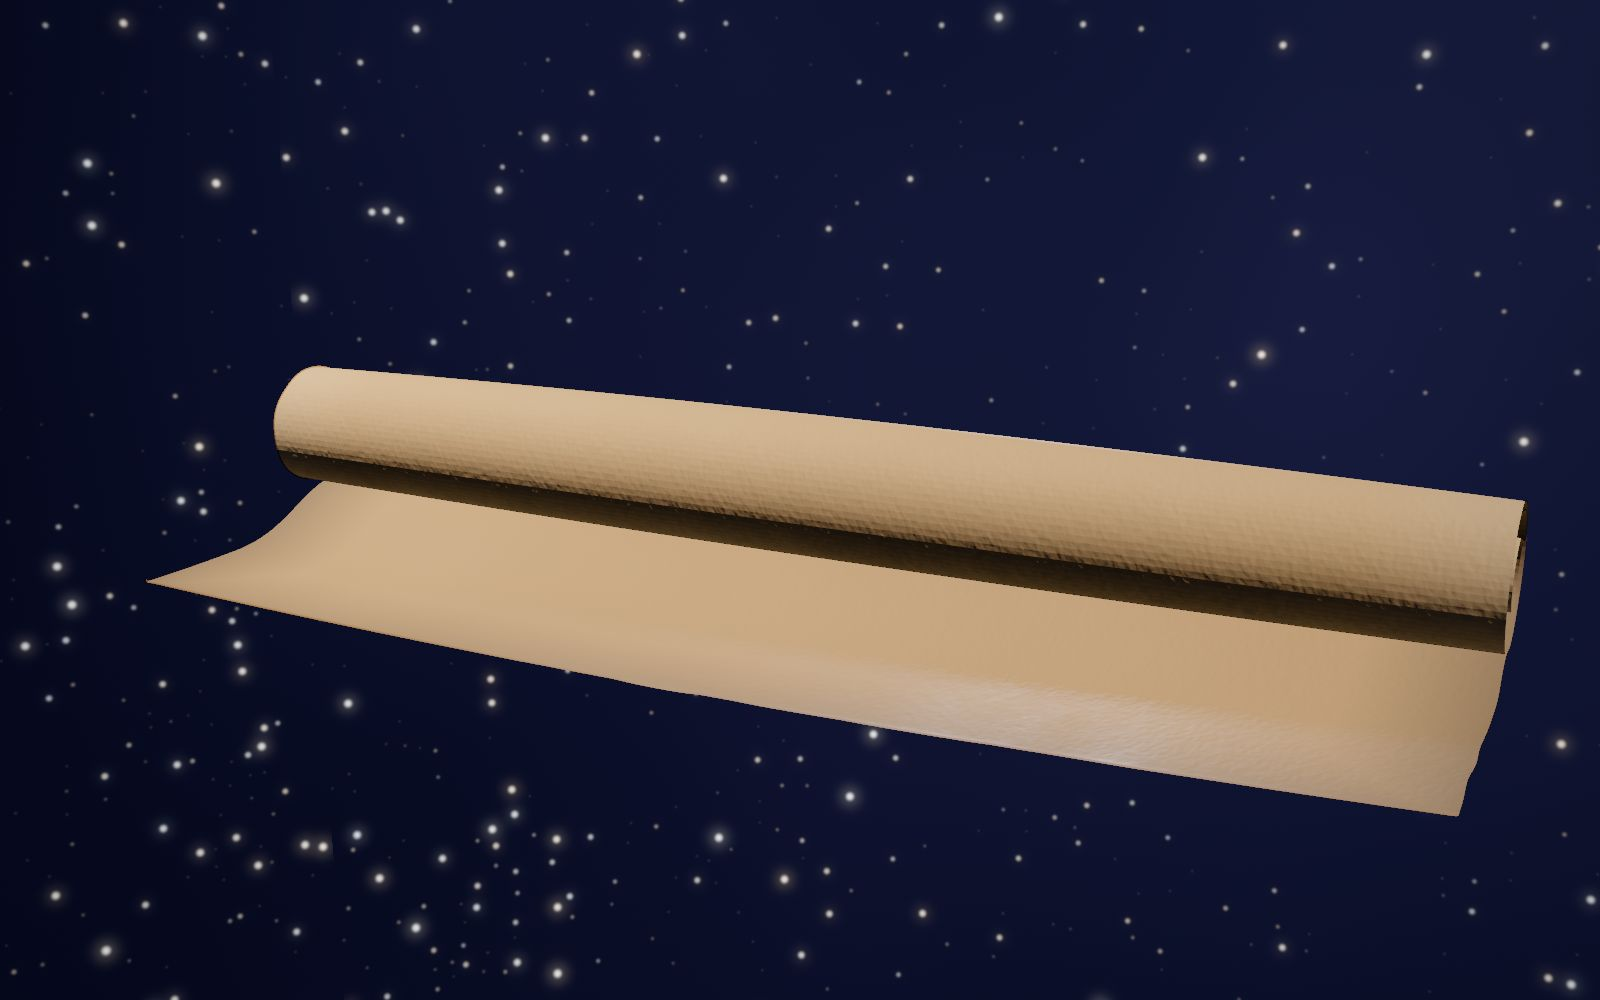
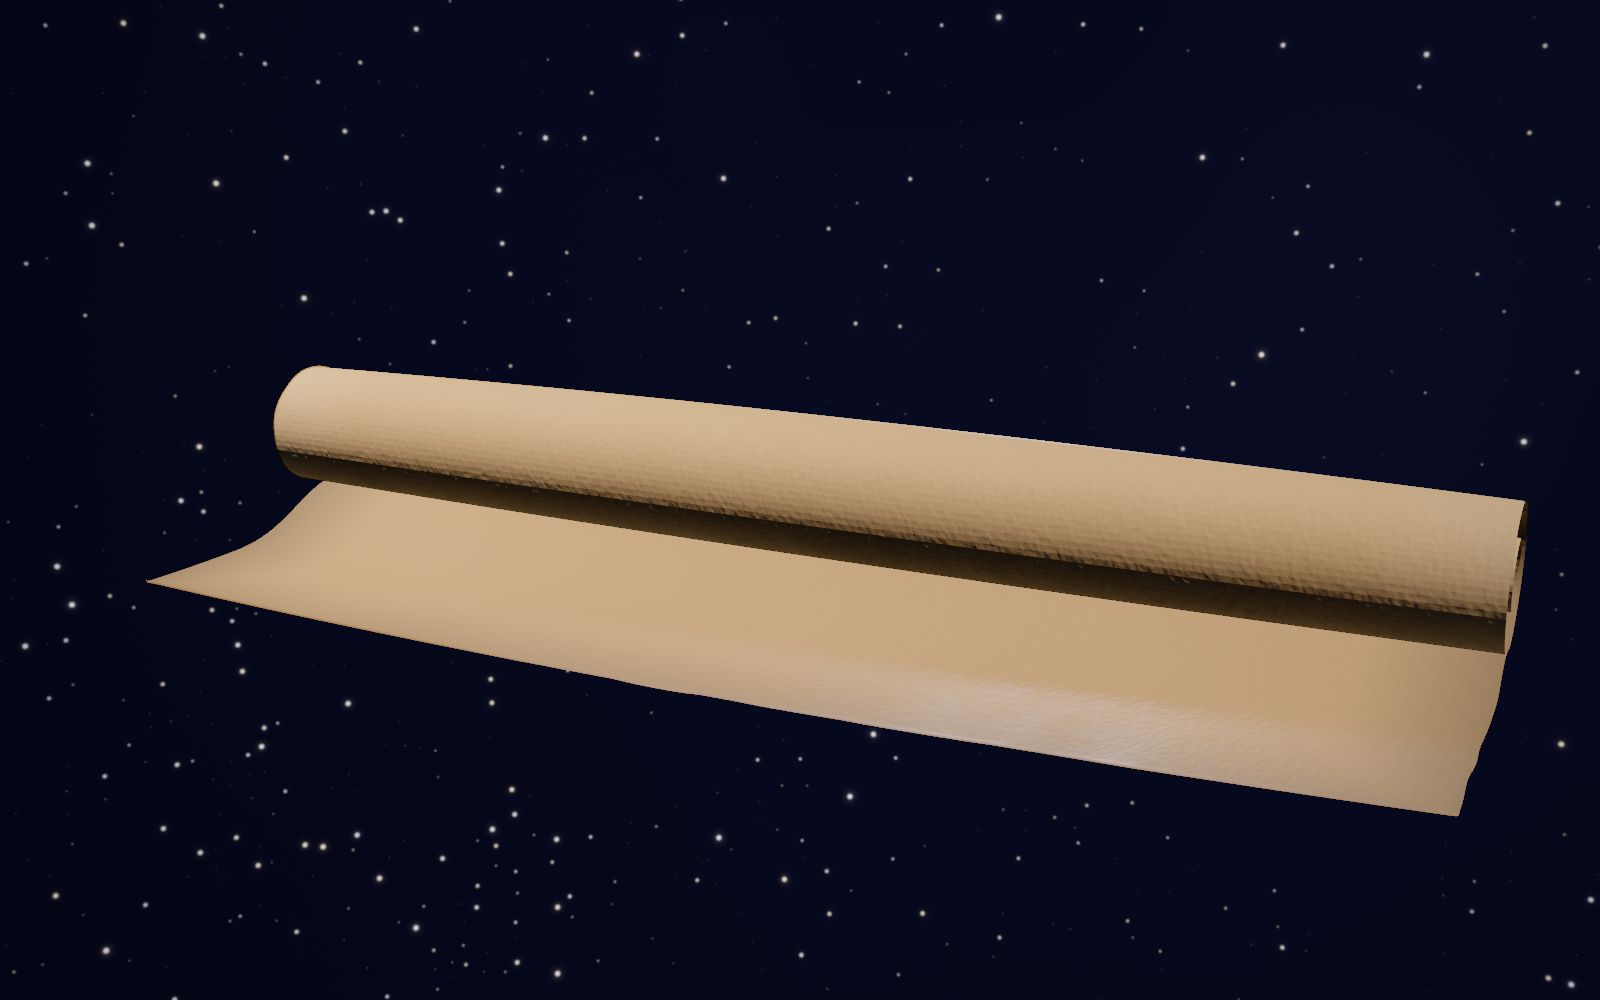
v1.6 second pass: floor #040617, lobe held to x1.55, stars smaller (sigma 0.65-1.25 px)
- review: 'starts dark then gets bright again' = the world-anchored lobe (in view at p 0 and 1, not while reading) -> GLOW_AMP 1.8 -> 0.55; floor breath 0.18 -> 0.12
- floor re-solved through the AgX chain: BG_LINEAR (0.0041577, 0.0041003, 0.011952) displays (4.2, 6.3, 23.2)
- stars: sigma (0.65 + 0.6 b^2) px, halo x3 at 1.2% b^4
- poster.jpg + LQIP regenerated; manifest v16_pending candidates; spec/ledger numbers synced

diff --git a/docs/spec.html b/docs/spec.html
@@ -162,7 +162,7 @@
   <div class="sec-head"><span class="sec-num">01</span><h2>Overall composition</h2></div>
 
   <p>A single portrait sheet (0.78 × 1.00 world units) floats near the origin in a <b>deep-blue universe</b>
-  (v1.6: floor <code>#05081C</code>, one nebular lobe behind the sheet, tiny stars — §11; through v1.5 it was
+  (v1.6: floor <code>#040617</code>, a whisper of a nebular lobe behind the sheet, tiny stars — §11; through v1.5 it was
   a warm near-black void <code>#0D0906</code>). The sheet lies in the world XZ plane when flat, +Y up, top
   of the text toward −Z. It is the only bright object; everything else — dust, the sky's lobe, the stars —
   sits at least 20× darker (the brightest stars excepted: a few pinpoints through the AgX shoulder). Historic register: broad Abbasid–Mamluk folio proportions, iron-gall ink, gilding over red
@@ -826,7 +826,7 @@ penumbra_texels = clamp(penumbra_world / texelWorld, 1.0, 28.0)         // texel
       <tr><td>Framing fractions</td><td class="n">per §9 table — roll 0.54 h → sheet 0.86 h (reading) → text 0.66 w (final)</td></tr>
       <tr><td>UI</td><td class="n">bottom-left: state label, 11 px mono, #A2957A, fades 300 ms on scroll; bottom-right: 2 px progress hairline, gold at 0.35 alpha; first-visit chevron hint, dies on first scroll, never returns (localStorage)</td></tr>
       <tr><td>Pointer parallax</td><td class="n">±0.35° per §9; additionally ±0.004 world lateral light sway on the key (disabled in reduced motion)</td></tr>
-      <tr><td>Background</td><td class="n"><b>v1.6 universe ground.</b> Floor <b>#05081C</b> (calibrated through AgX, §16) on a far sphere shaded purely by view direction (the sky sits at infinity — it turns with the camera, never parallaxes against the sheet). One world-anchored nebular lobe about direction (0, 0.35, −1): cos³ falloff, peak floor × 2.8, modulated ± 60% by 3-octave value noise (period ≈ 2.3 rad), tinted violet where dense / teal-blue where thin, plus a ± 18% noise breath over the bare floor. Stars: one candidate per cell of a 6 × 104² cube-face grid at 26% occupancy (≈ 500 in the 1440×900 S3 frame, ≈ 220 at p = 1), jittered inside the central 56% of the cell; brightness = floor luminance × (2.5 + 420·b⁶), b uniform — most a few × floor, the rare one white through the AgX shoulder; core Gaussian <em>in angle</em> with σ = (0.9 + 0.9·b²) px of the current render (the pixel angle vfov/height is a per-frame uniform, so a star is ~1 px on every tier and in capture), soft halo σ×4 at 2%·b⁴; tints between (1.0, 0.86, 0.72) and (0.78, 0.86, 1.0). No time term: deterministic, capture-safe. Vignette −0.35 EV and grain/dither apply after (§16). Through v1.5: #0D0906 with a 1.5% radial warm lift.</td></tr>
+      <tr><td>Background</td><td class="n"><b>v1.6 universe ground.</b> Floor <b>#040617</b> (calibrated through AgX, §16) on a far sphere shaded purely by view direction (the sky sits at infinity — it turns with the camera, never parallaxes against the sheet). One world-anchored nebular lobe about direction (0, 0.35, −1): cos³ falloff, peak floor × 1.55 (held to a whisper: the lobe is in view at p = 0 and p = 1 but not while reading, and a stronger one read as “dark, then bright again”), modulated ± 60% by 3-octave value noise (period ≈ 2.3 rad), tinted violet where dense / teal-blue where thin, plus a ± 12% noise breath over the bare floor. Stars: one candidate per cell of a 6 × 104² cube-face grid at 26% occupancy (≈ 500 in the 1440×900 S3 frame, ≈ 220 at p = 1), jittered inside the central 56% of the cell; brightness = floor luminance × (2.5 + 420·b⁶), b uniform — most a few × floor, the rare one white through the AgX shoulder; core Gaussian <em>in angle</em> with σ = (0.65 + 0.6·b²) px of the current render (the pixel angle vfov/height is a per-frame uniform, so a star is ~1 px on every tier and in capture; MSAA 4× resolves the sub-pixel cores), soft halo σ×3 at 1.2%·b⁴; tints between (1.0, 0.86, 0.72) and (0.78, 0.86, 1.0). No time term: deterministic, capture-safe. Vignette −0.35 EV and grain/dither apply after (§16). Through v1.5: #0D0906 with a 1.5% radial warm lift.</td></tr>
     </tbody>
   </table></div>
 </section>
@@ -990,15 +990,16 @@ embossStr(t)  = 1 − E7(t)                       // E7 = cubic-bezier(0.37, 0, 
 
   <h3>Background through AgX <span class="tag">calibrated, not hoped for</span></h3>
   <p>AgX's toe plus the grade's +0.004 black lift would render a naively-set floor color
-  lighter and greyer than designed (v1.6 floor <b>#05081C</b>; #0D0906 through v1.5). Decision: the background stays <b>inside</b> the tone-mapped pass
+  lighter and greyer than designed (v1.6 floor <b>#040617</b>; #0D0906 through v1.5). Decision: the background stays <b>inside</b> the tone-mapped pass
   (rendering it outside would seam the fog and dust blending against it), and the clear color is
   <b>pre-compensated</b>: the <code>?calibrate=bg</code> harness solves the clear color against the
   LIVE pipeline (render → readback, damped 3×3 Newton with a numerical Jacobian — AgX's inset matrix
   mixes channels near black, so per-channel iteration cannot converge) until the displayed background
   is the target <b>exactly</b> (<code>?calibrate=bg&amp;target=RRGGBB</code>; the sky's lobe and stars are
-  switched off for the solve and ride on top of it). v1.6 solve, 2026-09-01, #05081C through the full
-  chain: linear <b>(0.0048272, 0.0048456, 0.014377)</b> → displays (5.2, 8.3, 28.1) — the red and green
-  channels come out nearly equal for a 5:8 display ratio, AgX's inset mixing at work. (2026-08-25 warm
+  switched off for the solve and ride on top of it). v1.6 solve, 2026-09-01, #040617 through the full
+  chain: linear <b>(0.0041577, 0.0041003, 0.011952)</b> → displays (4.2, 6.3, 23.2) — the red and green
+  channels come out nearly equal for a 4:6 display ratio, AgX's inset mixing at work (earlier passes:
+  #080D26 → (0.0065316, 0.0063597, 0.01999); #05081C → (0.0048272, 0.0048456, 0.014377)). (2026-08-25 warm
   solve for #0D0906: (0.00798, 0.00648, 0.00504), ~6–15× the naive hex→linear conversion; AgX's toe
   crushes near-black, which is this section's whole premise.) The harness re-runs whenever the tone/grade
   chain changes (it IS the build step, and stays correct by construction). Vignette is excluded from
@@ -1047,7 +1048,7 @@ embossStr(t)  = 1 − E7(t)                       // E7 = cubic-bezier(0.37, 0, 
     <div class="figbox">
     <pre class="mermaid">%%{init: {"theme":"base","themeVariables":{"primaryColor":"#1D1810","primaryTextColor":"#E7DDC6","primaryBorderColor":"#57431F","lineColor":"#8F7440","fontSize":"12.5px","fontFamily":"IBM Plex Mono, monospace"}}}%%
 graph TD
-  SC[Scene · sky floor 05081C + lobe + stars] --> ENV[EnvRotator · yaw f p]
+  SC[Scene · sky floor 040617 + lobe + stars] --> ENV[EnvRotator · yaw f p]
   SC --> SR[SheetRoot · pose tilt + recede f p]
   SR --> PM[ParchmentMesh · 192x256 grid · reads posTex/nrmTex]
   SR --> ER[EdgeRibbon · perimeter strip]
@@ -1735,16 +1736,19 @@ world(u,v) = P(u,v) + T·r_t + B·r_b + N·r_n</code></pre>
   </ol>
   <h3 style="margin-top:26px">v1.6 — the universe ground <span class="tag">2026-09-01 · user direction · pending sign-off</span></h3>
   <p>“I think I want the background to be a deeper blue / universe with tiny stars, and then the gold letters will
-  have a better contrast — the gold and blue will be more beautiful”; on the first frames: “I need the blue darker”.
+  have a better contrast — the gold and blue will be more beautiful”; on the first frames: “I need the blue darker”;
+  on the second: “the blue starts off kind of dark and then gets bright again, but I still need it all a little bit
+  darker and I need the stars a little smaller”.
   A §7/§8/§11/§16 look revision; every reference frame changes, so the whole blessed set is re-blessed on sign-off.</p>
   <ol>
-    <li><b>§11 / §16</b> — Floor #0D0906 → <b>#05081C</b> (first pass #080D26, darkened on review), re-solved through the
-    full AgX + grade chain with the harness now taking <code>&amp;target=RRGGBB</code> (sky detail off for the solve):
-    linear (0.0048272, 0.0048456, 0.014377) → (5.2, 8.3, 28.1). The v1.0–1.5 sphere had shipped the pre-AgX-only warm
+    <li><b>§11 / §16</b> — Floor #0D0906 → <b>#040617</b> (passes: #080D26 → #05081C → #040617, darkened twice on
+    review), re-solved through the full AgX + grade chain with the harness now taking <code>&amp;target=RRGGBB</code>
+    (sky detail off for the solve): linear (0.0041577, 0.0041003, 0.011952) → (4.2, 6.3, 23.2). The v1.0–1.5 sphere had shipped the pre-AgX-only warm
     solve as a shader literal; the far sphere is now a view-direction sky (<code>src/look/sky.ts</code>): a
-    world-anchored nebular lobe (cos³ about (0, 0.35, −1), peak ×2.8, ± 60% 3-octave noise, violet/teal tint) and
+    world-anchored nebular lobe (cos³ about (0, 0.35, −1), peak ×1.55 — a stronger lobe read as “dark, then bright
+    again” because it is in view at p = 0 and p = 1 but not while reading; ± 60% 3-octave noise, violet/teal tint) and
     procedural stars (6 × 104² cube-face cells, 26% occupancy, b⁶ brightness law, angular Gaussian cores of
-    0.9–1.8 px via a per-frame pixel-angle uniform, 3×3-cell neighbourhood so halos never clip). No time term —
+    0.65–1.25 px via a per-frame pixel-angle uniform — shrunk on review — 3×3-cell neighbourhood so halos never clip). No time term —
     deterministic on every tier and in capture.</li>
     <li><b>§8</b> — Rim #FFBE83 → <b>#D6E0FF</b> (the universe's light on the standing gold's edges); environment base
     cooled to blue-black (0.010/0.014/0.028 + floor lift 0.024/0.028/0.040), warm window and pinpoints unchanged; the

diff --git a/src/look/sky.ts b/src/look/sky.ts
@@ -9,8 +9,8 @@
 // Stars: one candidate per cell of a 6 × CELLS² cube-face grid, jittered inside the cell's
 // central 56% so a star never crosses a cell (no neighbour search, no seams); brightness
 // follows b⁶ (most stars a few × floor luminance, the rare one hundreds ×, white through the
-// AgX shoulder); the core is a Gaussian in ANGLE, σ ≥ 0.9 px, so the faintest stars are
-// resolved rather than sub-pixel sparkle.
+// AgX shoulder); the core is a Gaussian in ANGLE, σ ≥ 0.65 px, so the faintest stars are
+// (just) resolved rather than sub-pixel sparkle.
 
 import { BackSide, Mesh, MeshBasicNodeMaterial, SphereGeometry, Vector3 } from 'three/webgpu';
 import { cameraPosition, cross, dot, exp, float, fract, positionWorld, step, uniform, vec2, vec3 } from 'three/tsl';
@@ -19,7 +19,10 @@ import { cameraPosition, cross, dot, exp, float, fract, positionWorld, step, uni
 type N = any;
 
 const GLOW_DIR = new Vector3(0, 0.35, -1).normalize(); // behind the sheet, slightly above the S3–S7 gaze
-const GLOW_AMP = 1.8; // lobe peak = floor × (1 + GLOW_AMP), falling as cos³
+// The lobe is world-anchored, so it is in view at p = 0 and p = 1 but not while reading
+// (the camera looks down): review 2026-09-01 — "starts dark, then gets bright again" — so
+// it is held to a whisper (×1.55 peak) and the ground reads as one darkness across the scroll.
+const GLOW_AMP = 0.55; // lobe peak = floor × (1 + GLOW_AMP), falling as cos³
 const NEBULA_AMP = 0.6; // ± modulation of the lobe by the 3-octave value noise
 const CELLS = 104; // star cells per cube face — ≈ 500 stars in the 1440×900 S3 frame
 const OCCUPANCY = 0.26;
@@ -77,7 +80,7 @@ export function buildSky(floor: [number, number, number]): Sky {
   const g: N = dot(d, vec3(GLOW_DIR.x, GLOW_DIR.y, GLOW_DIR.z)).max(0);
   const lobe: N = g.mul(g).mul(g);
   const neb: N = fbm3(d.mul(2.3).add(vec3(5.1, 2.7, 9.4))).sub(0.5).mul(2);
-  const lift: N = lobe.mul(GLOW_AMP).mul(neb.mul(NEBULA_AMP).add(1)).add(neb.mul(0.18));
+  const lift: N = lobe.mul(GLOW_AMP).mul(neb.mul(NEBULA_AMP).add(1)).add(neb.mul(0.12));
   const tint: N = lerp(vec3(0.9, 1.0, 1.08), vec3(1.15, 0.92, 1.05), neb.mul(0.5).add(0.5));
   let col: N = floorC.add(floorC.mul(lift).mul(tint).mul(uDetail));
 
@@ -110,11 +113,12 @@ export function buildSky(floor: [number, number, number]): Sky {
       const theta: N = cross(d, c).length(); // small-angle exact, no acos precision loss near 1
       const b2: N = b.mul(b);
       const b6: N = b2.mul(b2).mul(b2);
-      const sigma: N = uPxRad.mul(b2.mul(0.9).add(0.9));
+      // "stars a little smaller" (review 2026-09-01): σ 0.65–1.25 px (was 0.9–1.8), halo ×3 at 1.2%
+      const sigma: N = uPxRad.mul(b2.mul(0.6).add(0.65));
       const peak: N = floorLum.mul(b6.mul(420).add(2.5));
       const core: N = exp(theta.mul(theta).div(sigma.mul(sigma).mul(-2)));
-      const sigmaH: N = sigma.mul(4);
-      const halo: N = exp(theta.mul(theta).div(sigmaH.mul(sigmaH).mul(-2))).mul(0.02).mul(b2.mul(b2));
+      const sigmaH: N = sigma.mul(3);
+      const halo: N = exp(theta.mul(theta).div(sigmaH.mul(sigmaH).mul(-2))).mul(0.012).mul(b2.mul(b2));
       const inFace: N = step(-0.5, cell.x).mul(step(cell.x, float(CELLS - 0.5))).mul(step(-0.5, cell.y)).mul(step(cell.y, float(CELLS - 0.5)));
       const occ: N = step(hOcc, float(OCCUPANCY)).mul(inFace);
       const starCol: N = lerp(vec3(1.0, 0.86, 0.72), vec3(0.78, 0.86, 1.0), temp);

diff --git a/index.html b/index.html
@@ -36,7 +36,7 @@
 </head>
 <body>
 <main aria-label="Al-Fātiḥah 3D Manuscript">
[2 lines of base64/hex data omitted]
 <div id="spacer" aria-hidden="true"></div>
 <canvas id="gl" role="img" aria-label="An aged parchment bearing Sūrat al-Fātiḥah, unrolled, written in ink, and raised into gilded relief as you scroll"></canvas>
 <div id="hud" role="status" aria-live="polite"></div>

diff --git a/docs/status.html b/docs/status.html
@@ -137,7 +137,7 @@
 
 <section>
   <p class="lede"><b>New today (your direction):</b> the ground is now a <b>deep-blue universe</b> — a floor calibrated to
-  <code>#05081C</code>, one nebular lobe behind the sheet, ~500 tiny stars, a cool rim and brighter gilding — review
+  <code>#040617</code>, a whisper of a nebular lobe behind the sheet, ~500 tiny stars, a cool rim and brighter gilding — review
   frames are with you; on sign-off every reference frame is re-blessed and the spec becomes v1.6. Otherwise: seven of
   nine milestones are closed and signed off — the piece is complete as an experience, and M7 is
   about shipping it well: the measured payload is <b>2.15 MB against the 8.5 MB target</b>, a poster and LQIP hold the
@@ -252,7 +252,7 @@
     <tr><td class="n">09-01</td><td>M4 signed off · silhouette p95 reading accepted</td><td>Five v1.5 frames blessed; the contour median is the silhouette metric; M5 opened</td></tr>
     <tr><td class="n">09-01</td><td>M5 signed off · 390 px contact shadow accepted</td><td>R-0.76 blessed; M6 opened</td></tr>
     <tr><td class="n">09-01</td><td>M6 signed off · S7 re-authoring accepted</td><td>R-0.93 / R-1.00 blessed; M7 opened</td></tr>
-    <tr><td class="n">09-01</td><td><b>Universe ground</b> — “a deeper blue / universe with tiny stars … the gold and blue will be more beautiful”, then “I need the blue darker”</td><td>v1.6 look: floor #0D0906 → #05081C (re-solved through AgX), sky lobe + stars, rim #FFBE83 → #D6E0FF, gold env ×1.6; <span class="pill p-wait">awaiting sign-off</span> — then every blessed frame is re-blessed and the poster ships in blue</td></tr>
+    <tr><td class="n">09-01</td><td><b>Universe ground</b> — “a deeper blue / universe with tiny stars … the gold and blue will be more beautiful”, then “I need the blue darker”, then “it starts dark and gets bright again … all a little darker, stars a little smaller”</td><td>v1.6 look: floor #0D0906 → #040617 (re-solved through AgX three times), lobe held to ×1.55 so the ground is one darkness across the scroll, stars σ 0.65–1.25 px, sky lobe + stars, rim #FFBE83 → #D6E0FF, gold env ×1.6; <span class="pill p-wait">awaiting sign-off</span> — then every blessed frame is re-blessed and the poster ships in blue</td></tr>
   </table>
   </div>
 </section>

diff --git a/src/look/stage.ts b/src/look/stage.ts
@@ -73,11 +73,11 @@ export type DebugMode = 'none' | 'normal' | 'matcap' | 'graycard' | 'ink' | 'blo
 // displays as exactly the §11 floor hex. Baked from `?calibrate=bg&target=<hex>` (damped
 // Newton against readback, sky detail off); re-run whenever the tone/grade chain changes.
 // v1.6 (2026-09-01): the warm #0D0906 darkness became the deep-blue universe floor —
-// first #080D26, then "darker" on review: #05081C. (History: the v1.0–1.5 sphere shipped
-// the pre-AgX-only warm solve (0.00798, 0.00648, 0.00504) as a literal — every M2–M7
-// frame carries it.)
-// Solved 2026-09-01 through the full grade chain: displays (5.2, 8.3, 28.1) for #05081C.
-export const BG_LINEAR: [number, number, number] = [0.0048272, 0.0048456, 0.014377];
+// first #080D26, then "darker" on review: #05081C, then "all a little darker": #040617.
+// (History: the v1.0–1.5 sphere shipped the pre-AgX-only warm solve (0.00798, 0.00648,
+// 0.00504) as a literal — every M2–M7 frame carries it.)
+// Solved 2026-09-01 through the full grade chain: displays (4.2, 6.3, 23.2) for #040617.
+export const BG_LINEAR: [number, number, number] = [0.0041577, 0.0041003, 0.011952];
 
 // §8 key intensity — 18% gray card at sheet center under key alone displays 128/255.
 // Baked from `?calibrate=key`; re-run when key geometry/cone changes or the HDRI lands.

diff --git a/src/main.ts b/src/main.ts
@@ -501,8 +501,8 @@ async function runCalibrate(mode: string): Promise<void> {
 
   if (mode === 'bg') {
     sheetRoot.visible = false;
-    // target display hex (&target=RRGGBB; default the §11 v1.6 floor #05081C)
-    const hex = (q.get('target') ?? '05081C').replace('#', '');
+    // target display hex (&target=RRGGBB; default the §11 v1.6 floor #040617)
+    const hex = (q.get('target') ?? '040617').replace('#', '');
     const target = [0, 1, 2].map((c) => parseInt(hex.slice(c * 2, c * 2 + 2), 16));
     // Damped 3×3 Newton with numerical Jacobian — AgX's inset matrix mixes channels near
     // black, so per-channel iteration cannot converge. Seed ≈ 2.5× the naive sRGB decode
